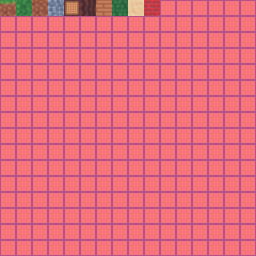
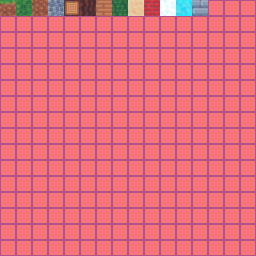
added some new blocks and changed block enum naming convention

Changed region(s): [[0.625, 0.0, 0.8125, 0.0625]]

diff --git a/src/chunk.rs b/src/chunk.rs
@@ -32,22 +32,25 @@ impl Vertex {
 #[derive(Copy, Clone, PartialEq, Eq, Debug, TryFromPrimitive, IntoPrimitive, Sequence)]
 #[repr(usize)]
 pub enum Block {
-    AIR = 0,
-    DIRT = 1,
-    GRASS = 2,
-    STONE = 3,
-    LOG = 4,
-    PLANK = 5,
-    LEAVES = 6,
-    SAND = 7,
-    BRICKS = 8,
+    Air = 0,
+    Dirt = 1,
+    Grass = 2,
+    Stone = 3,
+    Log = 4,
+    Plank = 5,
+    Leaves = 6,
+    Sand = 7,
+    Bricks = 8,
+    Snow = 9,
+    Ice = 10,
+    StoneBricks = 11,
 }
 
 impl Block {
     fn get_uv(&self, side: usize) -> u8 {
         match self {
-            Self::AIR => 0,
-            Self::GRASS => {
+            Self::Air => 0,
+            Self::Grass => {
                 if side < 4 {
                     return 0;
                 }
@@ -57,19 +60,22 @@ impl Block {
                     return 2;
                 }
             }
-            Self::DIRT => 2,
-            Self::STONE => 3,
-            Self::LOG => {
+            Self::Dirt => 2,
+            Self::Stone => 3,
+            Self::Log => {
                 if side < 4 {
                     return 5;
                 } else {
                     return 4;
                 }
             }
-            Self::PLANK => 6,
-            Self::LEAVES => 7,
-            Self::SAND => 8,
-            Self::BRICKS => 9,
+            Self::Plank => 6,
+            Self::Leaves => 7,
+            Self::Sand => 8,
+            Self::Bricks => 9,
+            Self::Snow => 10,
+            Self::Ice => 11,
+            Self::StoneBricks => 12,
         }
     }
 }
@@ -93,7 +99,7 @@ impl Chunk {
         let mut chunk = Self {
             position,
             world_position,
-            blocks: [Block::AIR; CHUNK_SIZE * CHUNK_SIZE * CHUNK_SIZE],
+            blocks: [Block::Air; CHUNK_SIZE * CHUNK_SIZE * CHUNK_SIZE],
             is_empty: true,
             bounding_box: Aabb::new(
                 world_position.as_vec3(),
@@ -121,7 +127,7 @@ impl Chunk {
                             * (CHUNK_SIZE - 1) as f64) as u32;
                         if val > 16 {
                             chunk.blocks[CHUNK_SIZE * CHUNK_SIZE * z + CHUNK_SIZE * y + x] =
-                                Block::STONE;
+                                Block::Stone;
                             chunk.is_empty = false;
                         }
                     } else {
@@ -130,11 +136,11 @@ impl Chunk {
                             * CHUNK_SIZE as f64) as u32;
                         if val == voxel_position.y as u32 {
                             chunk.blocks[CHUNK_SIZE * CHUNK_SIZE * z + CHUNK_SIZE * y + x] =
-                                Block::GRASS;
+                                Block::Grass;
                             chunk.is_empty = false;
                         } else if val > voxel_position.y as u32 {
                             chunk.blocks[CHUNK_SIZE * CHUNK_SIZE * z + CHUNK_SIZE * y + x] =
-                                Block::DIRT;
+                                Block::Dirt;
                             chunk.is_empty = false;
                         }
                     }
@@ -152,7 +158,7 @@ impl Chunk {
 
         if self.blocks[index] != block {
             self.blocks[index] = block;
-            self.is_empty = self.blocks.iter().all(|b| *b == Block::AIR);
+            self.is_empty = self.blocks.iter().all(|b| *b == Block::Air);
             return true;
         }
 
@@ -197,7 +203,7 @@ impl Chunk {
             for y in 0..CHUNK_SIZE {
                 for z in 0..CHUNK_SIZE {
                     let block = self.blocks[CHUNK_SIZE * CHUNK_SIZE * z + CHUNK_SIZE * y + x];
-                    if block == Block::AIR {
+                    if block == Block::Air {
                         continue;
                     }
 
@@ -228,7 +234,7 @@ impl Chunk {
                             if self.blocks[CHUNK_SIZE * CHUNK_SIZE * nz as usize
                                 + CHUNK_SIZE * ny as usize
                                 + nx as usize]
-                                != Block::AIR
+                                != Block::Air
                             {
                                 render_face = false;
                             }
@@ -242,7 +248,7 @@ impl Chunk {
                                 if chunk.blocks[CHUNK_SIZE * CHUNK_SIZE * pos.z as usize
                                     + CHUNK_SIZE * pos.y as usize
                                     + pos.x as usize]
-                                    != Block::AIR
+                                    != Block::Air
                                 {
                                     render_face = false;
                                 }

diff --git a/src/main.rs b/src/main.rs
@@ -265,7 +265,7 @@ impl State {
             is_cursor_visible: false,
 
             chunk_manager,
-            chosen_block: Block::DIRT,
+            chosen_block: Block::Dirt,
             look_at_position: IVec3::ZERO,
             look_at_normal: IVec3::ZERO,
 
@@ -306,18 +306,18 @@ impl State {
 
         match (button, is_pressed) {
             (MouseButton::Left, true) => {
-                if hit_block.is_some() && hit_block != Some(Block::AIR) {
-                    self.chunk_manager.set_block(pos, Block::AIR);
+                if hit_block.is_some() && hit_block != Some(Block::Air) {
+                    self.chunk_manager.set_block(pos, Block::Air);
                 }
             }
             (MouseButton::Right, true) => {
-                if hit_block.is_some() && hit_block != Some(Block::AIR) {
+                if hit_block.is_some() && hit_block != Some(Block::Air) {
                     self.chunk_manager
                         .set_block(pos + normal, self.chosen_block);
                 }
             }
             (MouseButton::Middle, true) => {
-                if hit_block.is_some() && hit_block != Some(Block::AIR) {
+                if hit_block.is_some() && hit_block != Some(Block::Air) {
                     if let Some(block) = self.chunk_manager.get_block(pos) {
                         self.chosen_block = block;
                     }

diff --git a/src/chunk_manager.rs b/src/chunk_manager.rs
@@ -97,7 +97,7 @@ impl ChunkManager {
 
         while traveled < max_distance {
             if let Some(block) = self.get_block(voxel) {
-                if !matches!(block, Block::AIR) {
+                if !matches!(block, Block::Air) {
                     break;
                 }
             }
